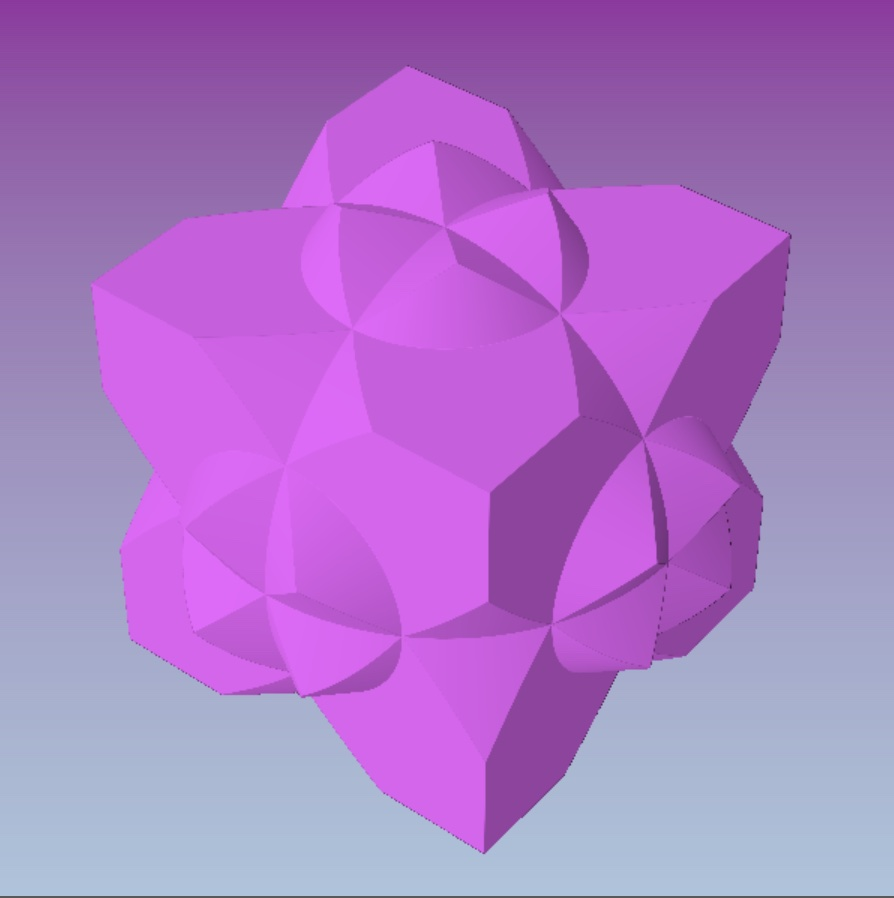
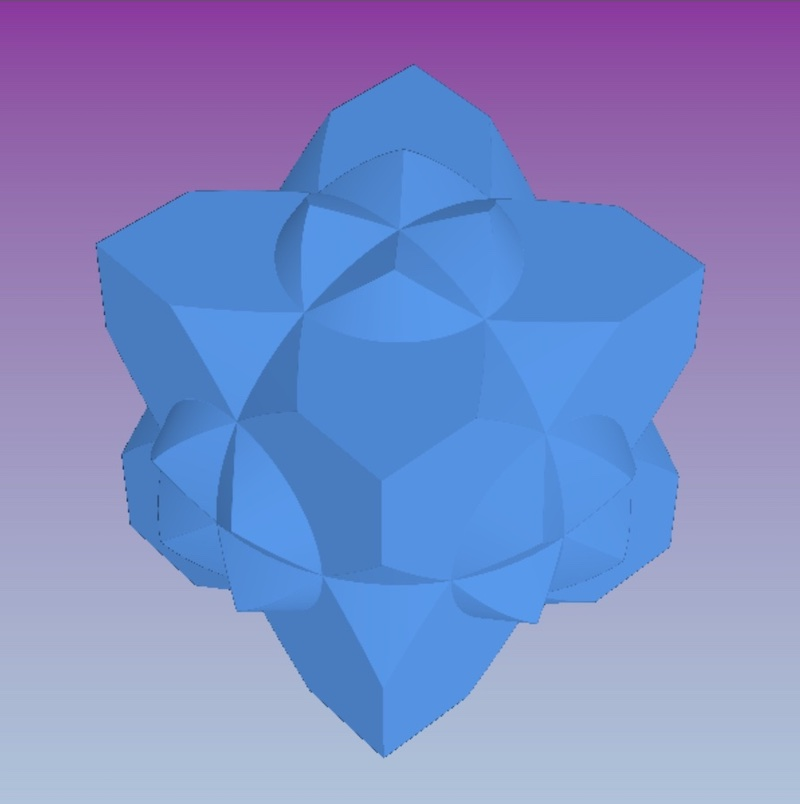
adding different images

diff --git a/README.md b/README.md
@@ -14,16 +14,16 @@ The supershape formula is really complex math!  Lucky, we don't have to complete
 
   These shapes were rendered in p5.js using a port of the code that Daniel Shiffman wrote in Processing in his Supershape Coding Challenge. This method applies a mesh to the vertices calculated from the superformula.  This is illustrated in the top left image, where the stroke is drawn.  In the other images, I have removed the stroke and varied the parameters to the supershape.  You can play around with the parameters in the live version of the sketch.
 
+<img class="img" src="assets/supershape_stroke.jpg" alt="Supershape" style=" display: block;
+    margin-left: auto;
+    margin-right: auto;" width="400" height="400">
 <img class="img" src="assets/super7.jpg" alt="Supershape" style=" display: block;
     margin-left: auto;
     margin-right: auto;" width="400" height="400">
-<img class="img" src="assets/super4.jpg" alt="Supershape" style=" display: block;
+    <img class="img" src="assets/super2.jpg" alt="Supershape" style=" display: block;
     margin-left: auto;
     margin-right: auto;" width="400" height="400">
-    <img class="img" src="assets/super3.jpg" alt="Supershape" style=" display: block;
-    margin-left: auto;
-    margin-right: auto;" width="400" height="400">
-<img class="img" src="assets/supershape_stroke.jpg" alt="Supershape with stroke" style=" display: block;
+<img class="img" src="assets/super4.jpg" alt="Supershape with stroke" style=" display: block;
     margin-left: auto;
     margin-right: auto;" width="400" height="400">
 
@@ -52,7 +52,7 @@ The supershape formula is really complex math!  Lucky, we don't have to complete
 
  ### Rotation method 
 
-  In his tutorial "How to turn your 2d fractal into 3d!", the very clever and creative Martijn Steinrucken ccreated a 3D Koch shape by rotating the fractal on all three axis and then taking the boolean intersection. You can do something similar with a 2D sdf. 
+  In his tutorial "How to turn your 2d fractal into 3d!", the very clever and creative Martijn Steinrucken created a 3D Koch shape by rotating the fractal on all three axis and then taking the boolean intersection. You can do something similar with a 2D SDF. The image on the left shows a 3D hexagram, while the image on the right shows a 3D star.  (The 2D sdfs are from Inigo Quilez.)
 
   [How to turn your 2d fractal into 3d!] https://www.youtube.com/watch?v=__dSLc7-Cpo
 
@@ -63,7 +63,7 @@ The supershape formula is really complex math!  Lucky, we don't have to complete
     margin-left: auto;
     margin-right: auto;" width="400" height="400">
 
-- [Shader -- Rotations] https://editor.p5js.org/kfahn/full/bveKzyp2D
+- [P5sketch -- Shader w/ Rotations] https://editor.p5js.org/kfahn/full/bveKzyp2D
 - [Link to code] https://editor.p5js.org/kfahn/sketches/bveKzyp2D
 
 ### Mixing two different shapes
